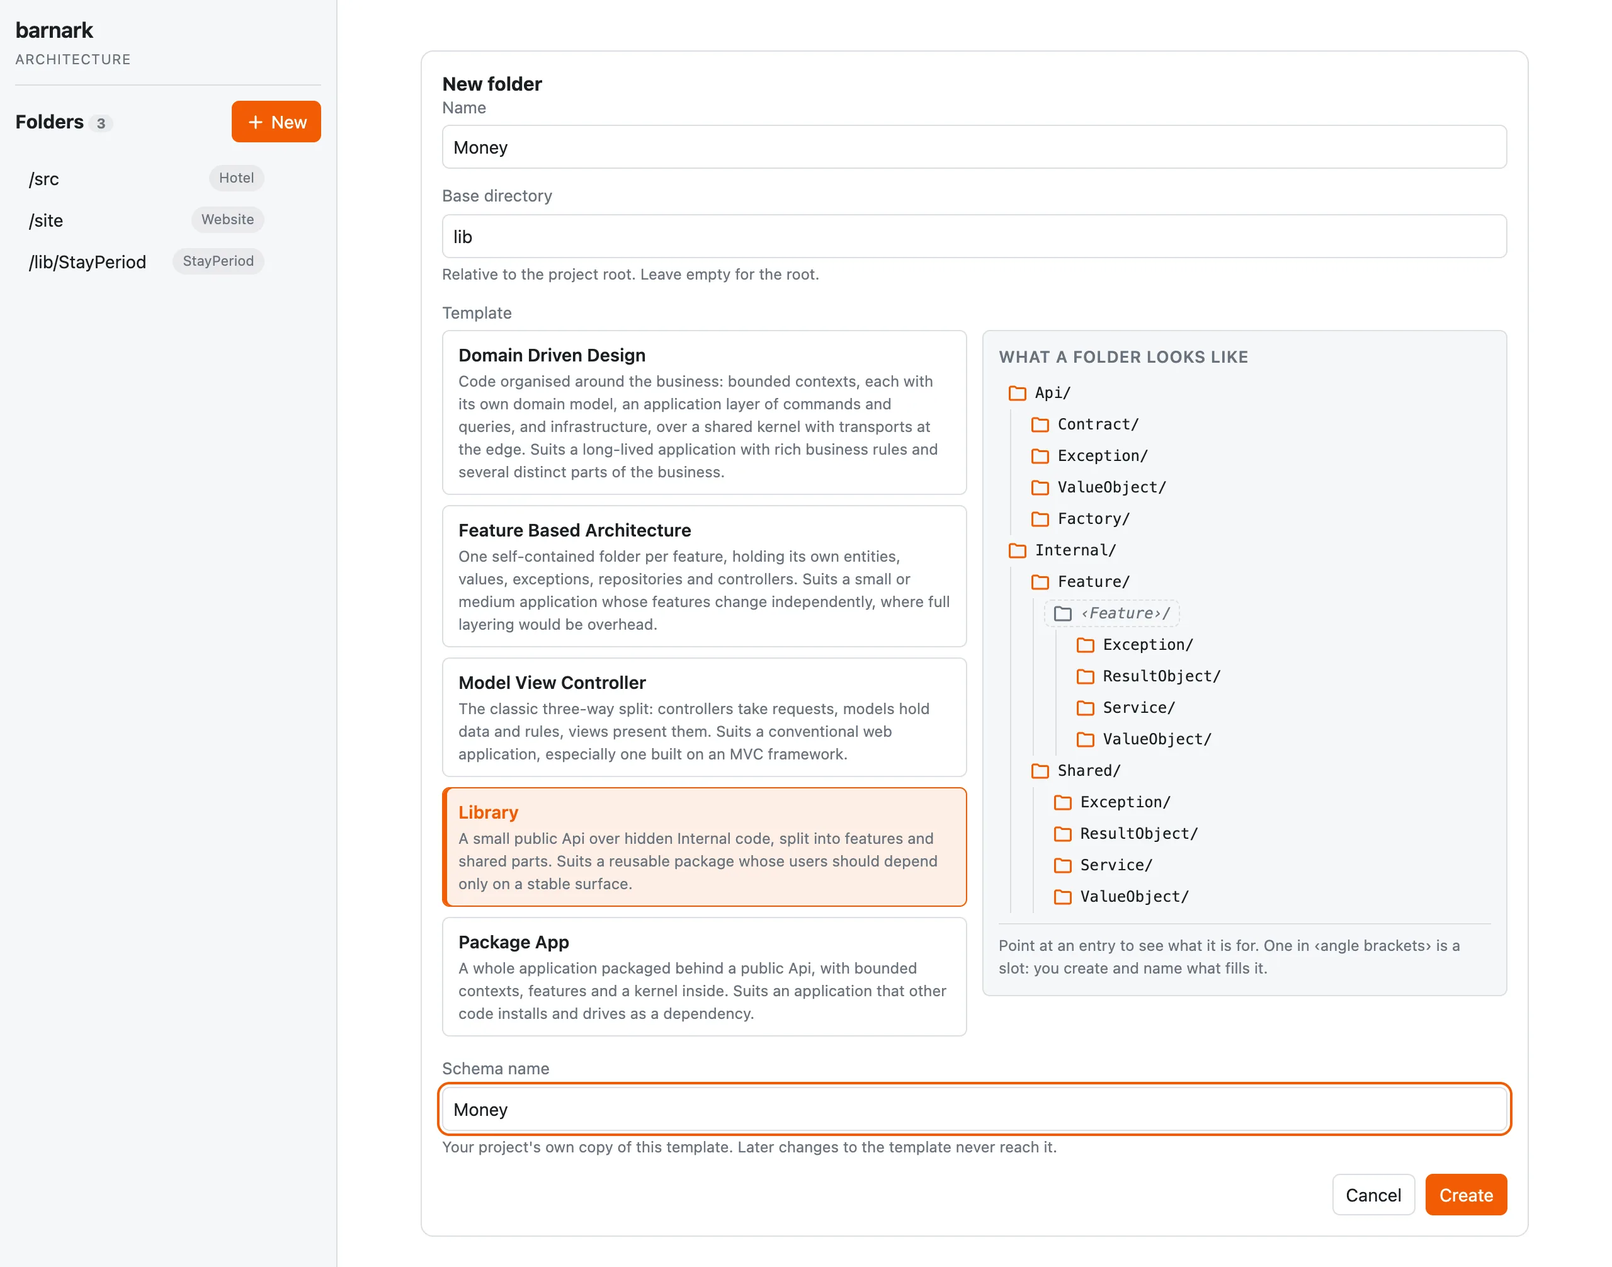
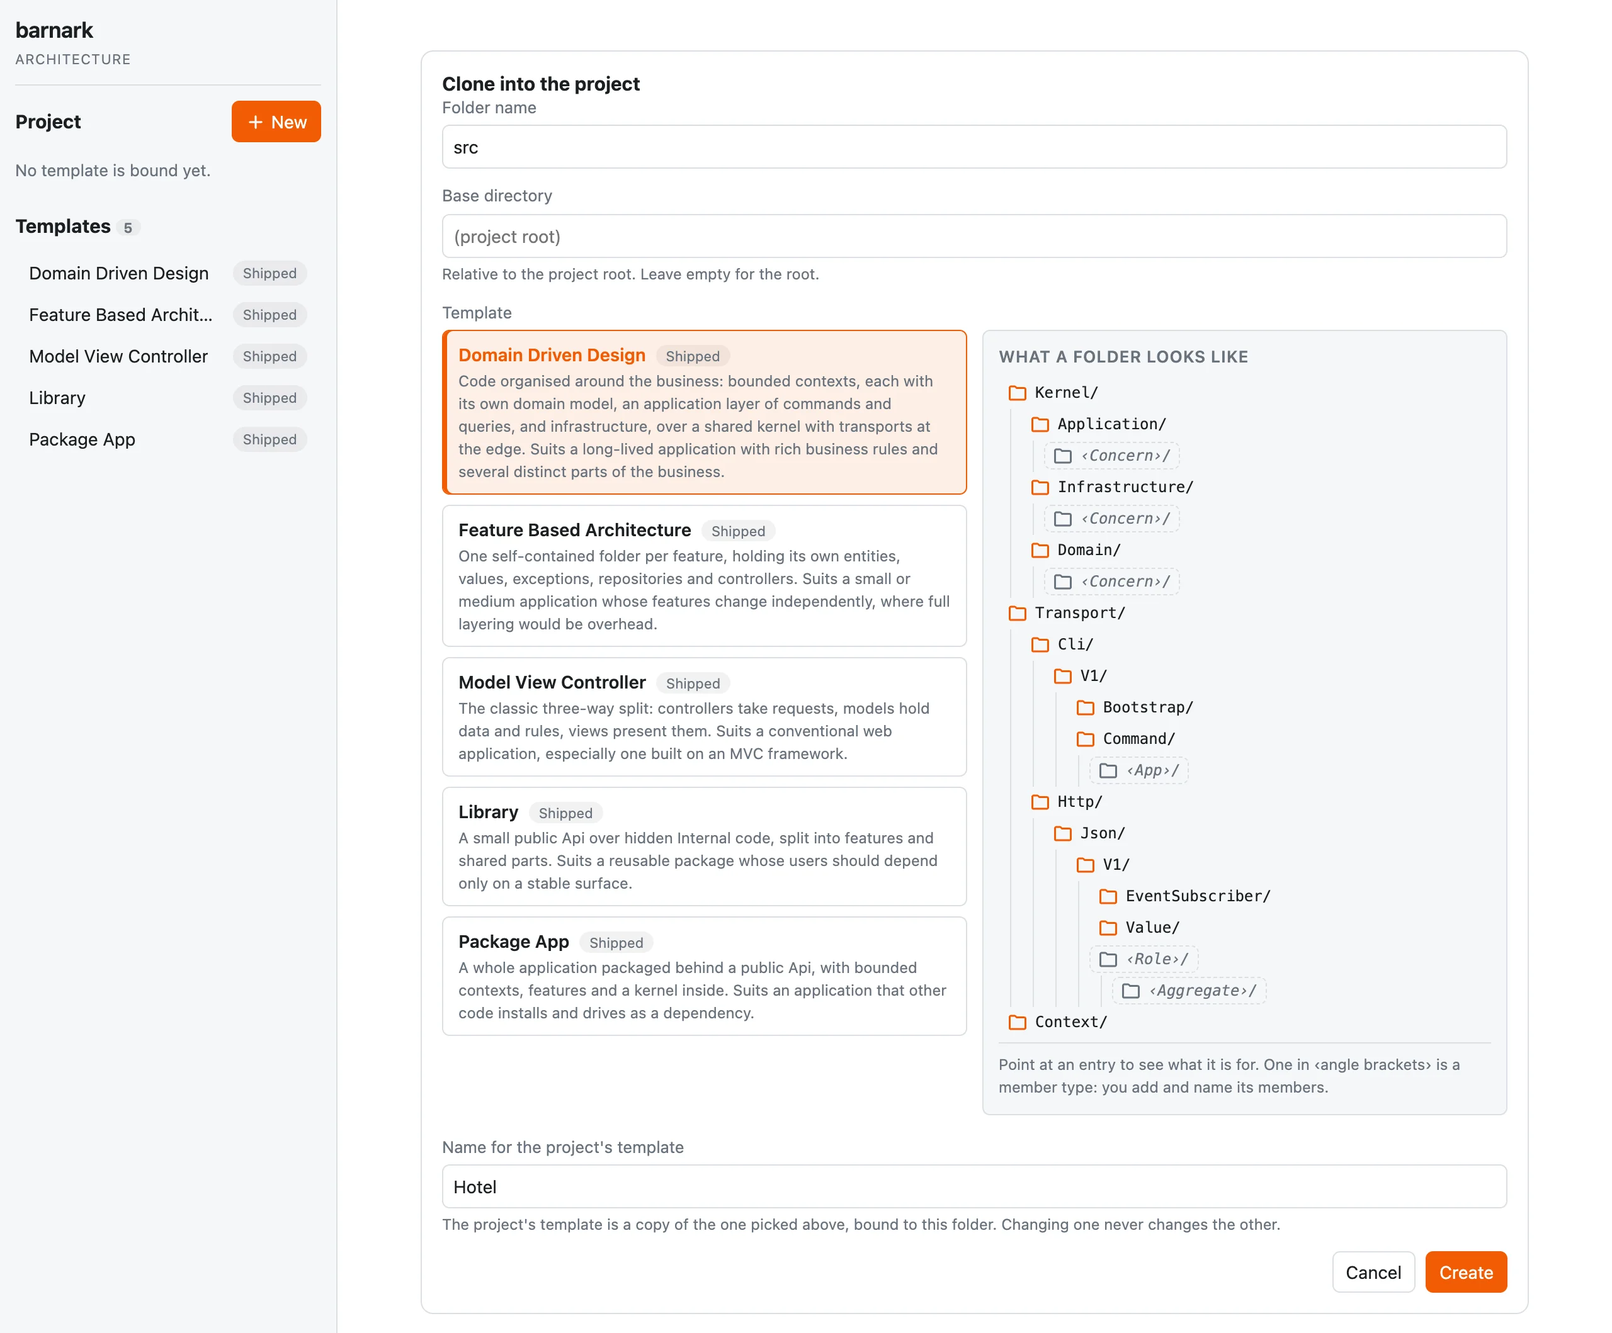
Retake the screenshots for Barnspec 3.1 and Barnark 7; one bound folder
The Story map, Work board, barn home and the four Barnark shots are retaken
against a made-up hotel. Barnark 7 binds one folder per project, so the copy
no longer offers several architectures in one project. The Barnspec page
describes the Story map, History, release notes and parameter examples.

diff --git a/barnspec.html b/barnspec.html
@@ -38,8 +38,8 @@
       </div>
       <div class="wrap wide hero-shot">
         <figure class="shot">
-          <div class="shot-bar" aria-hidden="true"><i></i><i></i><i></i><span>Barnspec · History</span></div>
-          <img src="assets/screens/spec-map.webp" width="1408" height="711" alt="The Barnspec History page for a hotel's reservations, its story map Phase by Phase. Columns follow a guest's journey; rows are slices of work. The slice being built is at the top and shows each story's real state; the released slices below it are proven.">
+          <div class="shot-bar" aria-hidden="true"><i></i><i></i><i></i><span>Barnspec · Story map</span></div>
+          <img src="assets/screens/spec-map.webp" width="1408" height="522" alt="The Barnspec Story map for a hotel's reservations: every story once, as it reads now, grouped by the role that wants it. Columns follow a stay from establishing to terminating. Stories changed since they were first released are marked elaborated, and those still being built are marked planned.">
         </figure>
       </div>
     </section>
@@ -111,7 +111,7 @@
           <figure>
             <div class="shot">
               <div class="shot-bar" aria-hidden="true"><i></i><i></i><i></i><span>Barnspec · Work</span></div>
-              <img src="assets/screens/spec-work.webp" width="1408" height="662" alt="A Barnspec work board for the scenario “book room 101 again for 2 nights from 1 December”. The brief lists two Given conditions, the action and the expected outcome. Both tickets are done, yet it reads “All tickets done — not yet run”, with the command that proves it.">
+              <img src="assets/screens/spec-work.webp" width="1408" height="638" alt="A Barnspec work board for the scenario “add Alex to the 3-night booking for room 12”. The brief gives the Given condition, the action and the expected outcome. Both tickets are done, yet it reads “All tickets done — not yet run”, with the command that proves it.">
             </div>
             <figcaption>Both tickets are done. It stays “not yet proven” until a run says otherwise.</figcaption>
           </figure>
@@ -122,7 +122,7 @@
             <span class="kicker">Focus</span>
             <h2>One slice at a time.</h2>
             <p>Work happens in slices: small, whole pieces of value, built from end to end. There is the slice being built now and the ones already released. <strong>There is no backlog</strong>, and nothing to estimate.</p>
-            <p>When every story in the slice is proven, release it and start the next. Barnspec refuses to release a slice that isn’t proven, with no way around it. Released slices fold away but stay proven, and they keep being re-checked while new work is built.</p>
+            <p>When every story in the slice is proven, release it, copy its release notes and start the next. Barnspec refuses to release a slice that isn’t proven, with no way around it. Released slices fold away but stay proven, and they keep being re-checked while new work is built.</p>
           </div>
           <div class="panel" aria-label="Slices of work: three released, one being built">
             <ul class="phases">
@@ -219,6 +219,13 @@
             </div>
           </details>
           <details>
+            <summary><span>Story map and History<small>Every story once, or slice by slice</small></span></summary>
+            <div class="body">
+              <p>The <strong>Story map</strong> is where an area of business opens: every story once, as it reads now, under the role that wants it. Stories still being built are marked planned, and those changed since their first release are marked elaborated. Filter it to one role’s stories, or to those whose scenarios are about one subject. It changes nothing.</p>
+              <p><strong>History</strong> is the same map slice by slice, newest first, each slice holding the stories it added or changed. It’s where slices are planned, stories are changed and slices are released. Each released slice has <strong>release notes</strong> to copy: its stories, and the scenarios each one added, replaced or retired.</p>
+            </div>
+          </details>
+          <details>
             <summary><span>How a story’s status is decided<small>Rough, expressed, in progress, built, fulfilled</small></span></summary>
             <div class="body">
               <p>Each story is pinned down by <strong>scenarios</strong>: concrete Given / When / Then examples. A scenario’s colour is worked out, never set:</p>
@@ -254,6 +261,7 @@
             <summary><span>How the glossary is built<small>The ubiquitous language, one glossary per area of business</small></span></summary>
             <div class="body">
               <p>Domain-Driven Design calls a business’s shared vocabulary its <strong>ubiquitous language</strong>. Barnspec builds it from the stories themselves: each role, subject, fact and action keeps the meaning it was given when it was created, and the glossary gathers them for each area of business. Who takes part, what they deal with and what can be true of it, and everything they can do.</p>
+              <p>A detail a fact or action takes, such as a booking’s number of nights, can carry an example (“3”), shown beside its meaning. Examples can be changed at any time, even after release.</p>
               <p>Nothing is summarised or made up. It’s exactly what was written, sorted so any word can be found at a glance. Open it from the Glossary tab, or write it out next to the story pages, where the history links each area of business to its glossary.</p>
 <pre><code><span class="p">$ </span>vendor/bin/barnspec glossary --output-dir=docs/glossary   <span class="c"># a page per area of business, plus an index</span></code></pre>
             </div>
@@ -266,8 +274,9 @@
     --goal="cancel their booking" --reward="are not held to a stay they will not take"
 <span class="p">$ </span>vendor/bin/barnspec refine    <span class="c"># add its scenarios</span>
 <span class="p">$ </span>vendor/bin/barnspec reword    <span class="c"># or delete, until its slice is released</span>
-<span class="p">$ </span>vendor/bin/barnspec map --area-of-business=reservations   <span class="c"># the story map, every story once</span>
-<span class="p">$ </span>vendor/bin/barnspec history --output-dir=docs/history   <span class="c"># an HTML history, slice by slice</span></code></pre>
+<span class="p">$ </span>vendor/bin/barnspec map --area-of-business=reservations --subject=booking   <span class="c"># the story map, every story once</span>
+<span class="p">$ </span>vendor/bin/barnspec history --output-dir=docs/history   <span class="c"># an HTML history, slice by slice</span>
+<span class="p">$ </span>vendor/bin/barnspec release-notes --area-of-business=reservations --phase="first bookings"</code></pre>
               <p>Outside a barn, Barnspec stores its records as readable JSON under <code>.barnspec/</code>. In a barn, its story, scenario and work records live under <code>.barn/barnspec/</code>; Barnspec manages the Area of Business, Role and Story structure through Barncept in <code>.barn/concepts/</code>. The GUI and CLI still go through the Barnspec API, which keeps Barnspec’s domain rules in one place. Existing barns migrate that structure on first use, with the original files retained.</p>
             </div>
           </details>

diff --git a/barnark.html b/barnark.html
@@ -39,7 +39,7 @@
       <div class="wrap wide hero-shot">
         <figure class="shot">
           <div class="shot-bar" aria-hidden="true"><i></i><i></i><i></i><span>Barnark · Browse</span></div>
-          <img src="assets/screens/ark-browse.webp" width="1280" height="620" alt="Barnark showing three tracked folders, each following a schema of its own: Hotel, Website and StayPeriod. The src folder's tree is open at a Reservation context, with Create New Aggregate and Create New Context buttons where its schema allows them.">
+          <img src="assets/screens/ark-browse.webp" width="1280" height="620" alt="Barnark showing the project's one folder, src, which follows Hotel, its own copy of Domain Driven Design, with the five shipped templates listed below it. The tree is open at a Reservation context, with Create New Aggregate and Create New Context buttons where the template allows them.">
         </figure>
       </div>
     </section>
@@ -49,8 +49,8 @@
         <div class="feature">
           <div>
             <span class="kicker">No favourites</span>
-            <h2>Any architecture. Several in one project.</h2>
-            <p>Designing software architecture is not a case of one-size-fits-all. Pick from a catalogue of well-known shapes, and give each part of your project the one that suits it! An application’s core can be Domain Driven Design, its website Model View Controller and a shared library a Library, <strong>all in one project</strong>. Every template describes what it suits best, and Barnark shows you its shape before you pick it.</p>
+            <h2>Any architecture. Yours to pick.</h2>
+            <p>Designing software architecture is not a case of one-size-fits-all. Pick <strong>the shape that suits your project</strong> from a catalogue of well-known ones, or from a template of your own. Every template describes what it suits best, and Barnark shows you its shape before you pick it.</p>
           </div>
           <div class="grid two">
             <div class="card"><h3>Domain Driven Design</h3><p>Bounded contexts around a shared kernel.</p></div>
@@ -75,10 +75,10 @@
           </div>
           <figure>
             <div class="shot">
-              <div class="shot-bar" aria-hidden="true"><i></i><i></i><i></i><span>Barnark · New folder</span></div>
-              <img src="assets/screens/ark-new.webp" width="1280" height="1006" alt="The Barnark form for a new folder named Money under lib. Each template card says what the architecture is and what it suits. Library is chosen, and beside it is the shape a Library folder takes: Api with Contract, Exception, ValueObject and Factory, and Internal with a named Feature and Shared. Below, the schema name Money: the project's own copy of the template.">
+              <div class="shot-bar" aria-hidden="true"><i></i><i></i><i></i><span>Barnark · Clone into the project</span></div>
+              <img src="assets/screens/ark-new.webp" width="1280" height="1059" alt="The Barnark form that clones a template into a new project, for a folder named src. Each template card says what the architecture is and what it suits. Domain Driven Design is chosen, and beside it is the shape its folder takes: Kernel, Transport and Context, with angle-bracketed member types such as Concern and Aggregate for the folders you name. Below, the name Hotel for the project's own copy of the template.">
             </div>
-            <figcaption>A Library-shaped folder, about to be added beside the project’s Domain Driven Design code, following a copy named Money.</figcaption>
+            <figcaption>A new project’s <code>src/</code>, about to follow Hotel, its own copy of Domain Driven Design.</figcaption>
           </figure>
         </div>
 
@@ -137,7 +137,7 @@
           <figure>
             <div class="shot">
               <div class="shot-bar" aria-hidden="true"><i></i><i></i><i></i><span>Barnark · Check</span></div>
-              <img src="assets/screens/ark-check.webp" width="1280" height="330" alt="The Barnark Check tab for a project's src folder, which follows the schema Hotel, reporting: Conformant, no inconsistencies found.">
+              <img src="assets/screens/ark-check.webp" width="1280" height="390" alt="The Barnark Check tab for a project's src folder, which follows its template Hotel, reporting: Conformant, no inconsistencies found.">
             </div>
             <figcaption>A project’s <code>src/</code>, checked against Hotel, its own copy of Domain Driven Design.</figcaption>
           </figure>

diff --git a/index.html b/index.html
@@ -38,8 +38,8 @@
       </div>
       <div class="wrap wide hero-shot">
         <figure class="shot">
-          <div class="shot-bar" aria-hidden="true"><i></i><i></i><i></i><span>Barnspec · History</span></div>
-          <img src="assets/screens/spec-map.webp" width="1408" height="711" alt="The Barnspec History page, its story map Phase by Phase. The slice being built now is at the top and shows each story's real state: rough, expressed, in progress, and built but not yet proven. The three released slices below it are proven and ticked.">
+          <div class="shot-bar" aria-hidden="true"><i></i><i></i><i></i><span>Barnspec · Story map</span></div>
+          <img src="assets/screens/spec-map.webp" width="1408" height="522" alt="The Barnspec Story map for a hotel's reservations: every story once, as it reads now. Columns follow a stay from establishing to terminating, each story sits under the role that wants it, and the stories still being built are marked planned. Filters keep one role's stories, or only those about one subject.">
         </figure>
       </div>
     </section>
@@ -108,7 +108,7 @@
           <figure>
             <div class="shot">
               <div class="shot-bar" aria-hidden="true"><i></i><i></i><i></i><span>Barnspec · Work</span></div>
-              <img src="assets/screens/spec-work.webp" width="1408" height="662" alt="A Barnspec work board for the scenario “book room 101 again for 2 nights from 1 December”. The brief lists two Given conditions, the action and the expected outcome. Both tickets are done, yet it reads “All tickets done — not yet run”, with the command that proves it.">
+              <img src="assets/screens/spec-work.webp" width="1408" height="638" alt="A Barnspec work board for the scenario “add Alex to the 3-night booking for room 12”. The brief gives the Given condition, the action and the expected outcome. Both tickets are done, yet it reads “All tickets done — not yet run”, with the command that proves it.">
             </div>
             <figcaption>Every ticket is done, and it still isn’t green. Only a run against the real software can do that.</figcaption>
           </figure>
@@ -205,7 +205,7 @@
               <h2>A new project, in safe hands.</h2>
             </div>
             <div>
-            <p>Choose an architecture for each part of your project, from a catalogue or your own. Every folder it makes has <strong>a meaning in plain words</strong>: what belongs there, and which way its dependencies point. Anyone, a new developer included, can read where a file belongs.</p>
+            <p>Choose an architecture for your project, from a catalogue or your own. Every folder it makes has <strong>a meaning in plain words</strong>: what belongs there, and which way its dependencies point. Anyone, a new developer included, can read where a file belongs.</p>
             <p>New parts are created in the right place with one click, and one check tells you whether any folder has strayed from its architecture.</p>
             <a class="more" href="barnark.html">Meet Barnark</a>
             </div>
@@ -213,7 +213,7 @@
           <figure>
             <div class="shot">
               <div class="shot-bar" aria-hidden="true"><i></i><i></i><i></i><span>Barnark · Browse</span></div>
-              <img src="assets/screens/ark-browse.webp" width="1280" height="620" alt="Barnark browsing a project's src folder, which follows Hotel, its own copy of Domain Driven Design, with Create New Context and Create New Aggregate buttons wherever the schema allows them.">
+              <img src="assets/screens/ark-browse.webp" width="1280" height="620" alt="Barnark browsing a project's src folder, which follows Hotel, its own copy of Domain Driven Design, with Create New Context and Create New Aggregate buttons wherever the template allows them.">
             </div>
             <figcaption>Your project’s template knows what belongs where, and offers to create it.</figcaption>
           </figure>

diff --git a/barn.html b/barn.html
@@ -39,7 +39,7 @@
       <div class="wrap wide hero-shot">
         <figure class="shot">
           <div class="shot-bar" aria-hidden="true"><i></i><i></i><i></i><span>Barn · Home</span></div>
-          <img src="assets/screens/barn-home.webp" width="1360" height="384" alt="The home page of a barn. Business lists each area of business with its scenarios counted green, yellow, red and not started. Architecture lists three tracked folders, following the schemas Hotel, Website and StayPeriod, each one clean.">
+          <img src="assets/screens/barn-home.webp" width="1360" height="284" alt="The home page of a barn named hotel. Business lists its area of business, Reservations, with its scenarios counted: 19 green, 0 yellow, 1 red and 2 not started. Architecture lists the project's folder, src, following its template Hotel, and clean.">
         </figure>
       </div>
     </section>
@@ -51,7 +51,7 @@
             <span class="kicker">Three tabs</span>
             <h2>Home, Business and Architecture.</h2>
             <p><strong>Home</strong> is where the barn stands: every area of business with its scenarios counted by colour, and your project’s folder with whether it still fits its template.</p>
-            <p><strong>Business</strong> is <a href="barnspec.html">Barnspec</a>: the story map, its scenarios and the work behind them. <strong>Architecture</strong> is <a href="barnark.html">Barnark</a>: your folders, the architecture each one follows, and a check of each.</p>
+            <p><strong>Business</strong> is <a href="barnspec.html">Barnspec</a>: the story map, its scenarios and the work behind them. <strong>Architecture</strong> is <a href="barnark.html">Barnark</a>: your project’s folder, the architecture it follows, and a check of it.</p>
             <p>The two are kept apart on purpose. Each speaks its own language, and the home page is where you see both at once.</p>
           </div>
           <div class="grid two">

diff --git a/README.md b/README.md
@@ -7,34 +7,29 @@ Barnark and Barncept. There is no build step.
 
 It leads with the philosophy and the GUIs. Details, terminology, the command
 line and installation sit in each page's collapsible "Go deeper" sections.
-The screenshots in `assets/screens/` are real. The two Barnspec shots
-(`spec-map`, `spec-work`) are the Barnspec GUI running against a copy of
-Pleasant Stay, with one extra in-progress Phase added to that copy so the map
-shows every status.
+The screenshots in `assets/screens/` are real, taken in Chrome at twice the size.
 
-The others were retaken on 2026-10-25, after Barnark lost switching, files and
-borrowing and Barn lost `barn adopt`, from the local checkouts (not yet
-released) in headless Chrome at twice the size:
+Retaken on 2026-11-03, on Barnspec 3.1.0 and the Barnark 7 line, against a
+made-up hotel whose stories were written through Barnspec's API for the shots:
 
-- `barn-home`, `ark-browse`, `ark-check` and `ark-new`: a new barn made with
-  `barn build --template="Domain Driven Design"`, given three contexts, two
-  aggregates, a Model View Controller `site/` and a Library `lib/StayPeriod`, and
-  Pleasant Stay's story map copied in. The home shot hides the barn's path, which
-  was a scratch folder.
+- `spec-map` and `spec-work`: the Barnspec GUI's Story map and a Work board. In
+  `spec-work` the scenario's two tickets are done and it has never been run.
+- `barn-home`, `ark-browse` and `ark-check`: a barn made with
+  `barn build --template="Domain Driven Design" --template-name=Hotel`, given
+  three contexts and two aggregates, with the same hotel's stories. The home shot
+  hides the barn's path, which was a scratch folder. The Barnark shots leave out
+  the barn's top bar.
+- `ark-new`: the Barnark GUI on its own, in a project with nothing bound yet,
+  with Clone into the project filled in.
+
+Retaken on 2026-10-25:
+
 - `cept-vocab` (the name is kept because READMEs embed it) and `cept-editor`:
   the Barncept GUI over a folder holding Barncept's own example concepts
-  (House, Room, Kitchen, Garden, Pet) and Barnark's current Domain Driven Design
+  (House, Room, Kitchen, Garden, Pet) and Barnark's Domain Driven Design
   template, open on House's Living room and on a bounded context's Domain.
 
-The Barnark page also describes immutable revisions of the project’s template, added on
-2026-10-26. The existing `ark-browse` screenshot remains a Browse view; it does
-not show the new History tab. The revisions are in the pushed Barncept, Barnark,
-CLI, GUI and Barn main branches. These website edits are local, and the package
-changes have not yet been released with new tags.
-
-Since 2026-10-28 Barnark says "template" for every tree, the bound one too. The `ark-browse`,
-`ark-new`, `ark-check` and `barn-home` screenshots, and their alt text, still say "schema", and
-some show three tracked folders; retake them, alt text included, before the next release.
+No shot shows Barnark's History tab (the revisions of the project's template).
 
 The three GUIs' READMEs and Barnspec's, Barnark's and Barncept's embed
 `spec-map`, `ark-browse` and `cept-vocab` by their published URL, so replacing
